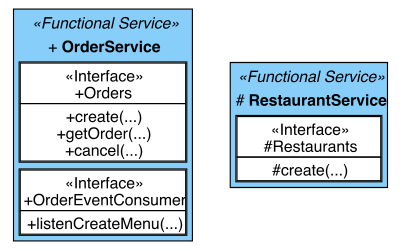
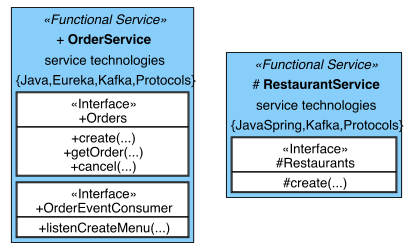
fixes a bug where technologies where not added properly to a microservice vertex, fixes examples accordingly.

diff --git a/src/main/kotlin/de/fhdo/lemma/model_processing/visualizer/graphviz/GraphUtil.kt b/src/main/kotlin/de/fhdo/lemma/model_processing/visualizer/graphviz/GraphUtil.kt
@@ -82,11 +82,12 @@ class GraphUtil {
                 "UTILITY" -> "#80c100"
                 else -> "#d3d3d3"
             }
-            //HTML template to display the Service vertices
+            //HTML template to display the service vertices
             return "<table bgcolor='${bgcolor}' border='1' cellborder='0'>" +
                     "<tr><td><i>&laquo;${it.type.toString().toLowerCase().capitalize()} Service&raquo;</i></td></tr>" +
                     "<tr><td>${it.visibility.visibilityHtml()} <b>${it.qualifiedName.substring(it.qualifiedName.lastIndexOf('.') + 1)}</b></td></tr>" +
-                    "${if (it.technology != null) "<tr><td>service technology {${it.technology}}</td></tr>" else ""}" +
+                    (if (it.technology != null) "<tr><td>service technologies</td></tr>" else "") +
+                    (if (it.technology != null) "<tr><td>{${it.technology}}</td></tr>" else "") +
                     (if (details.ordinal >= DetailLevel.INTERFACES.ordinal) it.interfacesHtml() else "") +
             "</table>"
         }

diff --git a/src/main/kotlin/de/fhdo/lemma/model_processing/visualizer/graphviz/GenerationModuleMicroserviceDependencies.kt b/src/main/kotlin/de/fhdo/lemma/model_processing/visualizer/graphviz/GenerationModuleMicroserviceDependencies.kt
@@ -173,8 +173,11 @@ class GenerationModuleMicroserviceNames : AbstractCodeGenerationModule() {
     private fun visitMicroserviceVertex(service: IntermediateMicroservice): MicroserviceVertex? {
         //if the service has not been added as a vertex
         if (!visitedMicroservices.contains(service.qualifiedName)) {
+            val serviceTechnologiesList = service.technologies.map { technology -> technology.name }
+            val technologyString = if(serviceTechnologiesList.isNotEmpty())
+                 serviceTechnologiesList.joinToString(separator = ",") else ""
             val newVertex =
-                MicroserviceVertex(service.visibility, service.name, service.fullyQualifiedName(), service.type)
+                MicroserviceVertex(service.visibility, service.name, service.fullyQualifiedName(), service.type, technologyString)
             visitedMicroservices[service.fullyQualifiedName()] = newVertex
             // remember edges which need to be drawn later
             service.requiredMicroservices.forEach {
